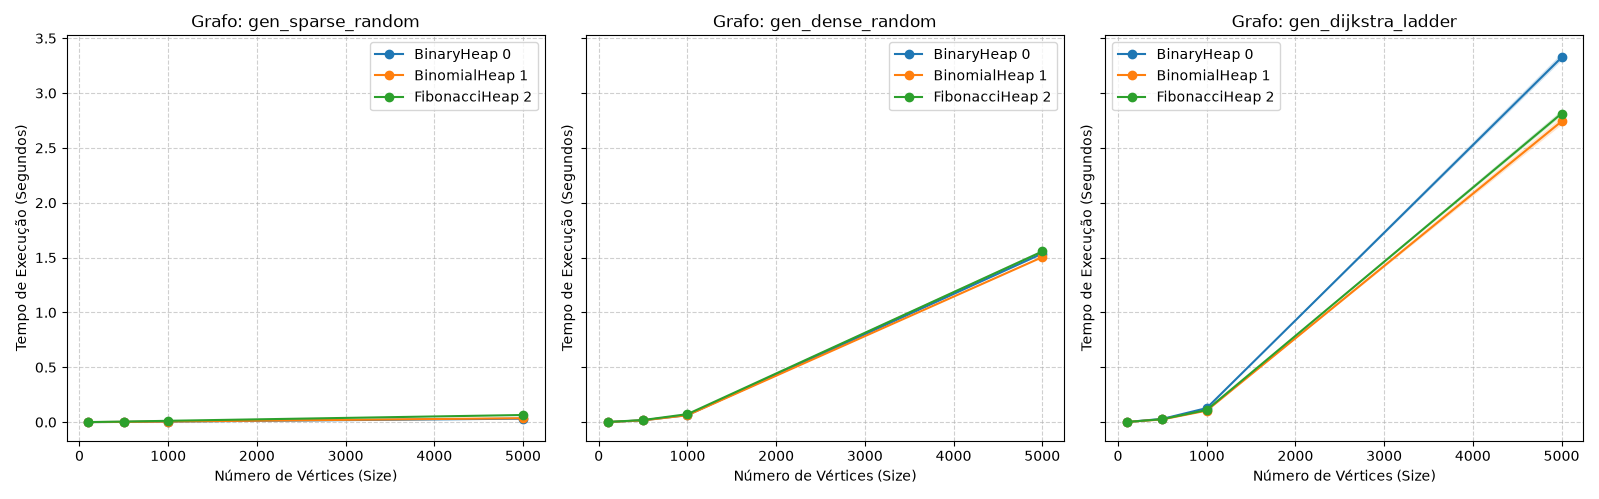
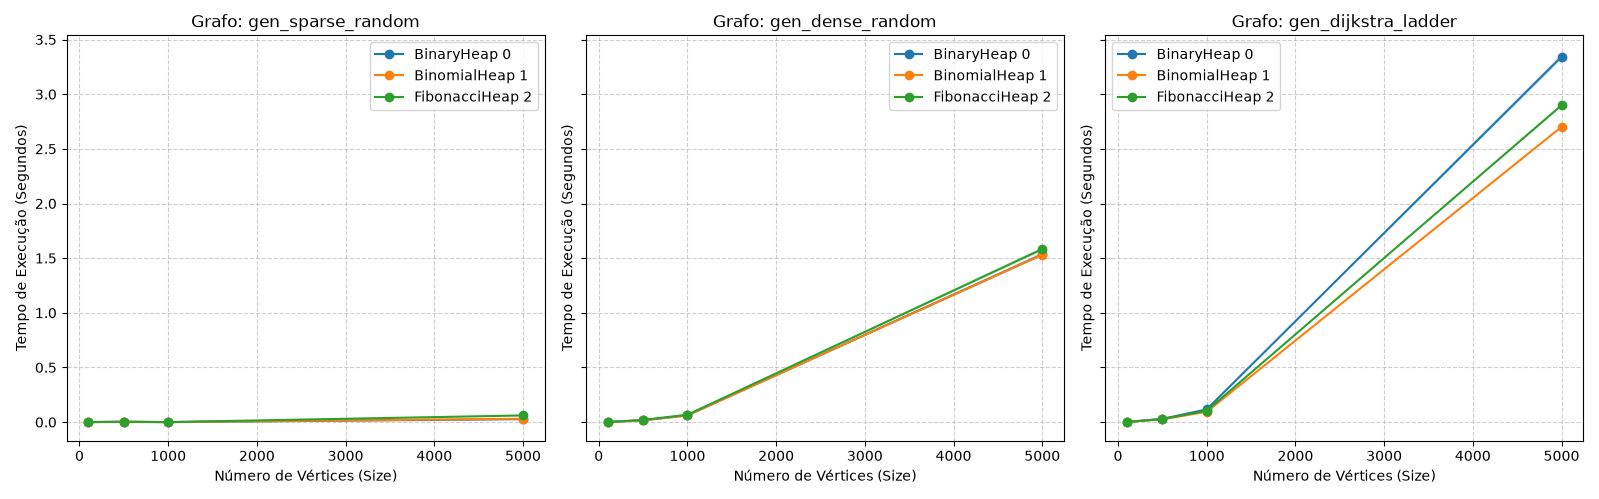
Adding the comparation image and pandas Dataframe metrics image

diff --git a/benchmark.py b/benchmark.py
@@ -126,6 +126,8 @@ def visualizar_benchmark(data):
             })
             
     df = pd.DataFrame(linhas)
+
+    print(df)
     
     # Descobrir quais são as famílias de grafos únicas para criar os subplots
     familias_grafos = df["Graph"].unique()

diff --git a/relatorio.md b/relatorio.md
@@ -44,6 +44,7 @@ Os tamanhos utilizados foram:
 
 ![Comparação de Heaps](Heaps_Comparation.png)
 
+![Métricas do Gafico](Data_Metrics.png)
 <!-- Inclua unidades e dispersão. -->
 
 ## Discussão
